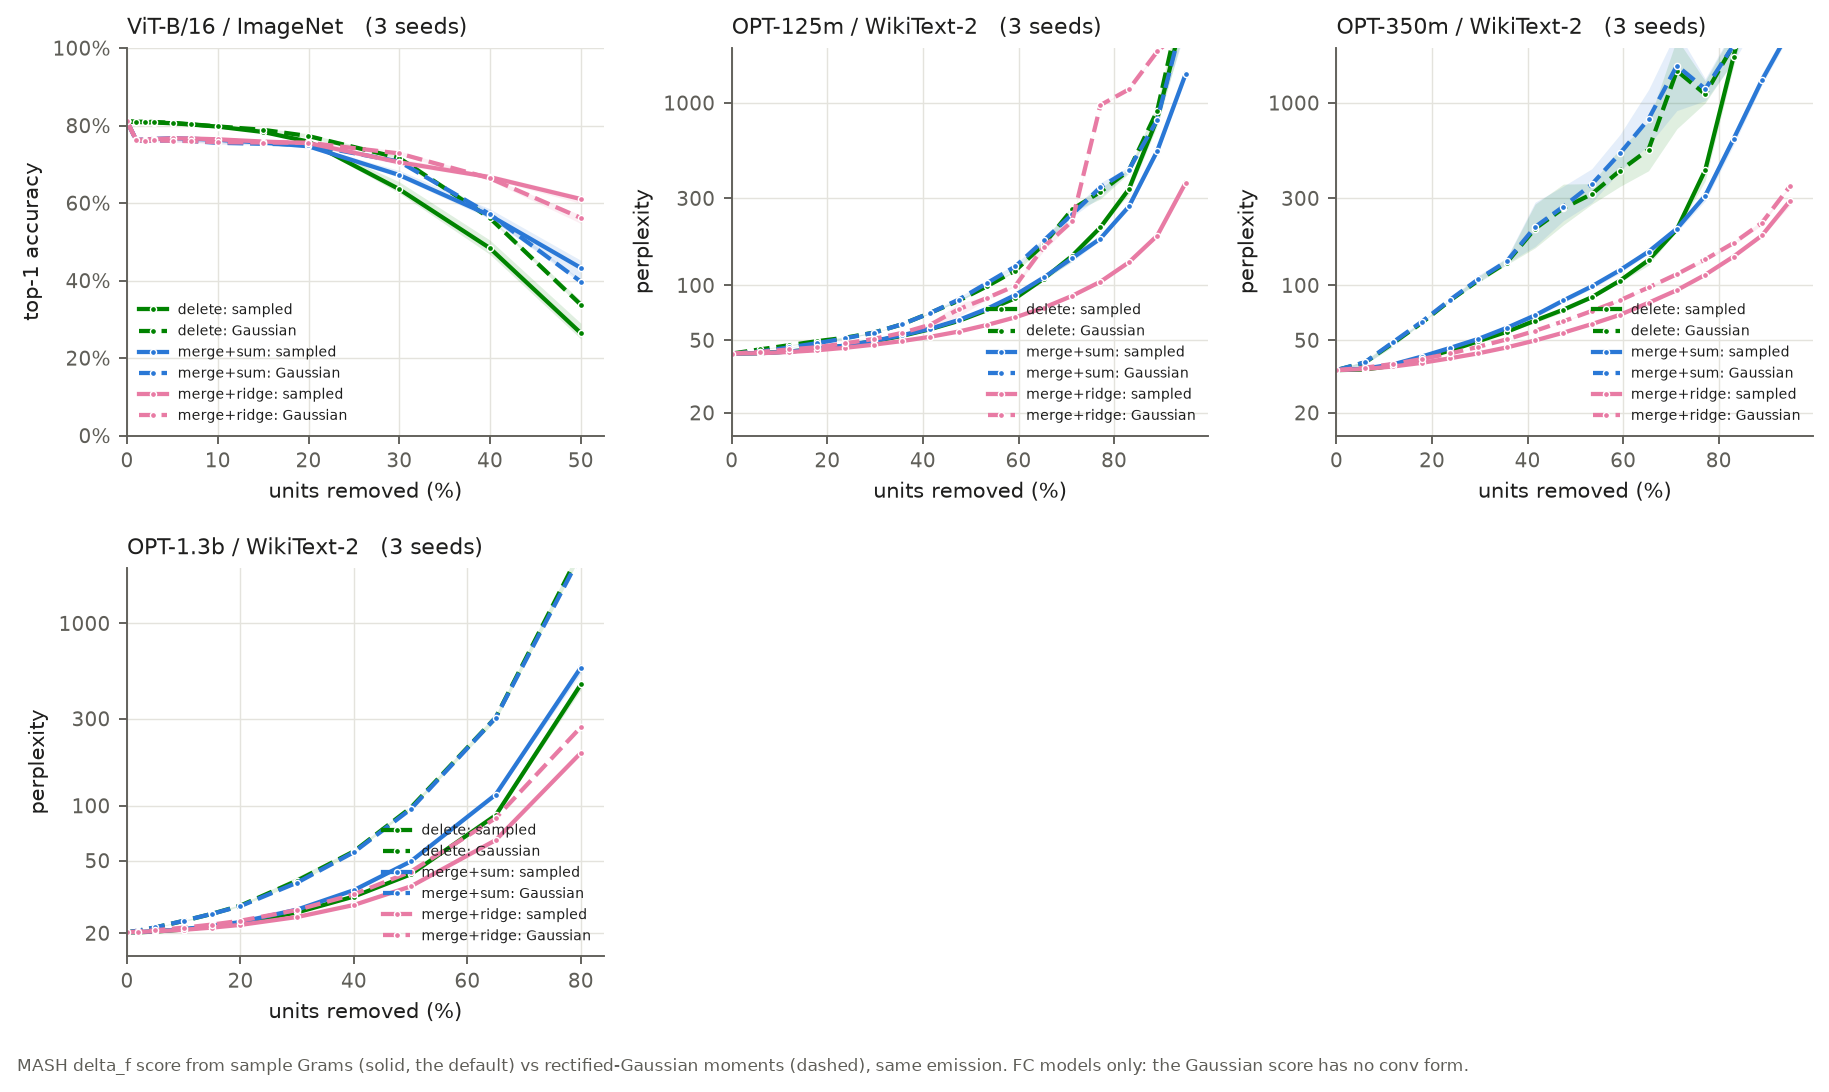
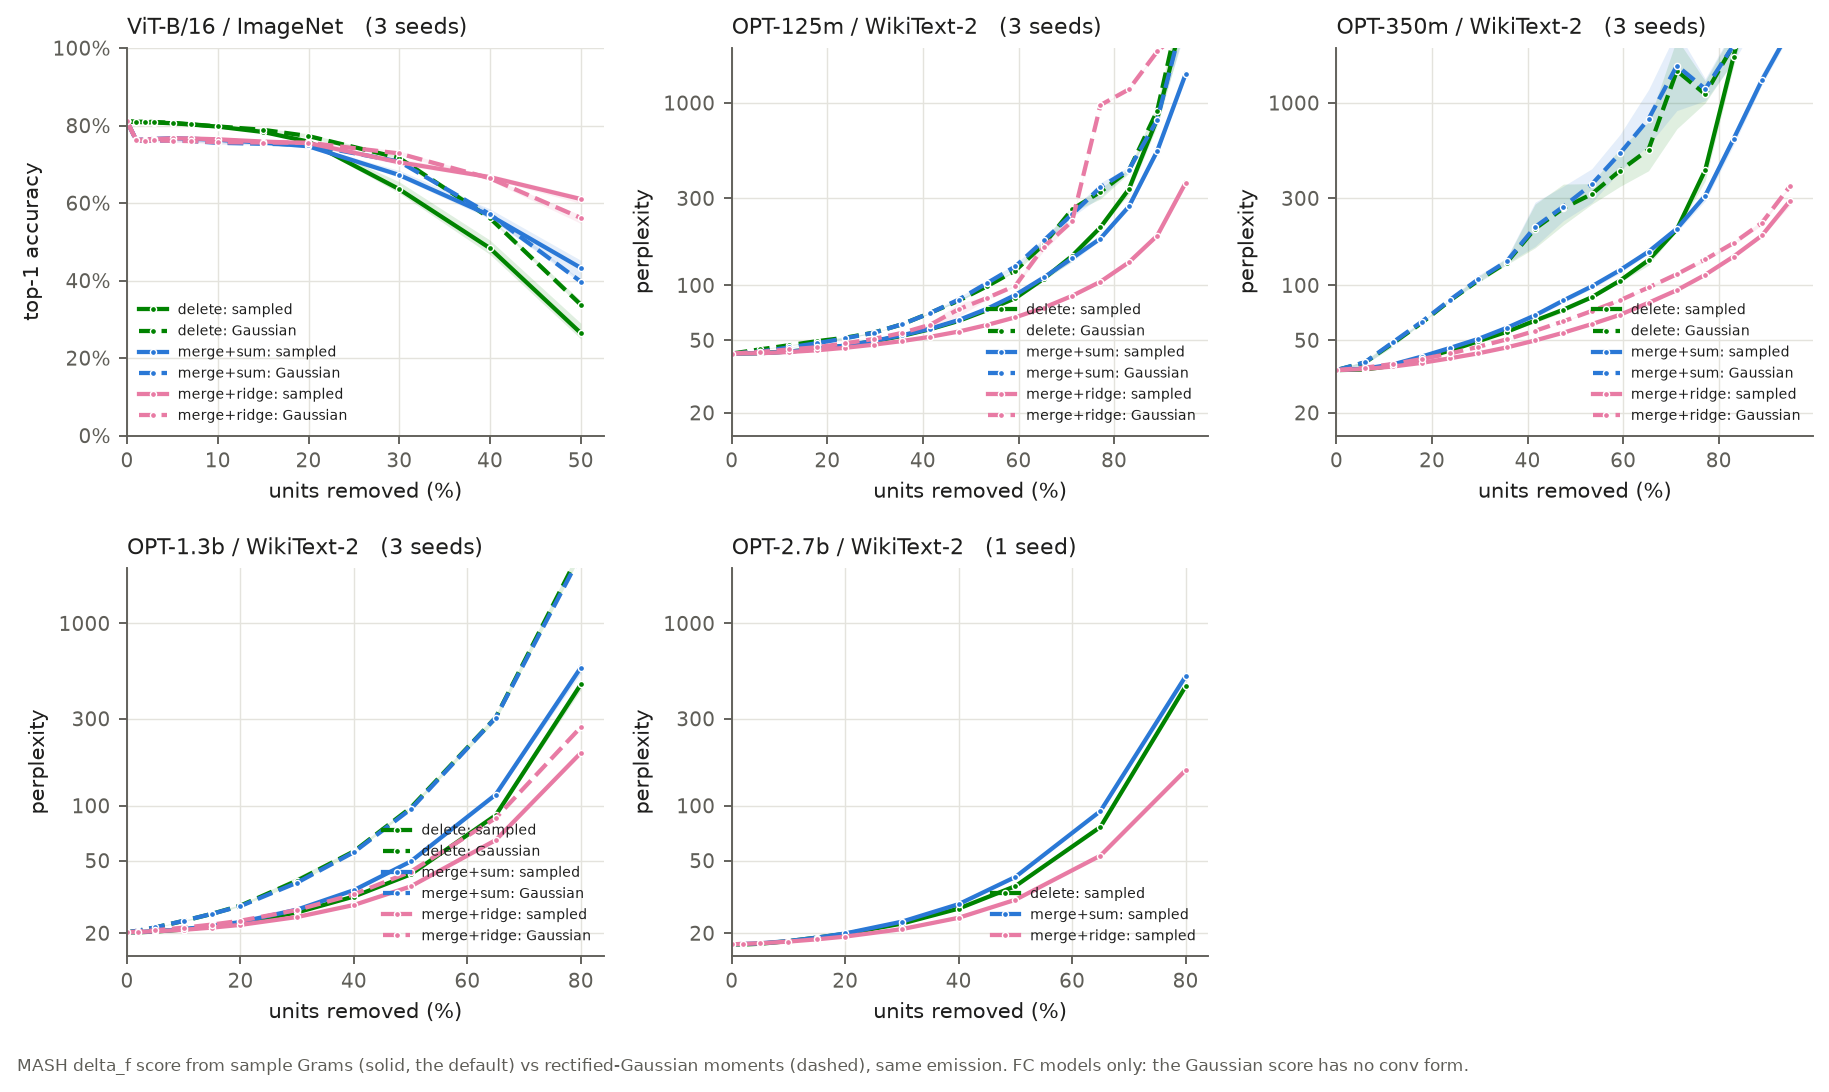
Cylinder arms only on the smaller models; preliminary figures with OPT-2.7b

diff --git a/paper/inventory.py b/paper/inventory.py
@@ -64,7 +64,7 @@ PAPER_BIG = {"random", "random_ridge", "magnitude_mass", "magnitude_mass_ridge",
              "osscar_norepair", "mash_medoid_none_delta_f", "mash_drop_none_delta_f",
              "mash_medoid_sum_delta_f",
              "mash_merge_sum_delta_f", "mash_ridge_merge_empirical_delta_f",
-             "mash_full_medoid_empirical_delta_f", "mash_merge_sum_cylinder"}
+             "mash_full_medoid_empirical_delta_f"}   # no cylinder arms at 2.7b/6.7b (decided 2026-09-14)
 
 
 def applicable(arm: str, model: str) -> str | None:

diff --git a/paper/TODO.md b/paper/TODO.md
@@ -8,18 +8,18 @@ Legend: `3/3` seeds done / wanted, `--` unrunnable by construction, `ARM?` arm n
 
 | arm | mnist_lenet | c10_resnet20 | c10_resnet56 | in_resnet18 | in_resnet50 | in_mobilenetv2 | in_vit_b16 | opt125m | opt350m | opt1.3b | opt2.7b | opt6.7b |
 |---|---|---|---|---|---|---|---|---|---|---|---|---|
-| mash_medoid_none_delta_f | **3/3** | **3/3** | **3/3** | **3/3** | **3/3** | **3/3** | **3/3** | **3/3** | **3/3** | **3/3** | 0/1 | 0/1 |
-| osscar_norepair | **3/3** | **3/3** | **3/3** | **3/3** | **3/3** | **3/3** | **3/3** | **3/3** | **3/3** | **3/3** | 0/1 | 0/1 |
-| magnitude_mass | **3/3** | **3/3** | **3/3** | **3/3** | **3/3** | **3/3** | **3/3** | **3/3** | **3/3** | **3/3** | 0/1 | 0/1 |
+| mash_medoid_none_delta_f | **3/3** | **3/3** | **3/3** | **3/3** | **3/3** | **3/3** | **3/3** | **3/3** | **3/3** | **3/3** | **1/1** | 0/1 |
+| osscar_norepair | **3/3** | **3/3** | **3/3** | **3/3** | **3/3** | **3/3** | **3/3** | **3/3** | **3/3** | **3/3** | **1/1** | 0/1 |
+| magnitude_mass | **3/3** | **3/3** | **3/3** | **3/3** | **3/3** | **3/3** | **3/3** | **3/3** | **3/3** | **3/3** | **1/1** | **1/1** |
 
 ## C1b same repair
 
 | arm | mnist_lenet | c10_resnet20 | c10_resnet56 | in_resnet18 | in_resnet50 | in_mobilenetv2 | in_vit_b16 | opt125m | opt350m | opt1.3b | opt2.7b | opt6.7b |
 |---|---|---|---|---|---|---|---|---|---|---|---|---|
-| mash_full_medoid_empirical_delta_f | **3/3** | **3/3** | **3/3** | **3/3** | **3/3** | **3/3** | **3/3** | **3/3** | **3/3** | **3/3** | 0/1 | 0/1 |
+| mash_full_medoid_empirical_delta_f | **3/3** | **3/3** | **3/3** | **3/3** | **3/3** | **3/3** | **3/3** | **3/3** | **3/3** | **3/3** | **1/1** | 0/1 |
 | mash_ridge_medoid_empirical_delta_f | **3/3** | **3/3** | **3/3** | **3/3** | **3/3** | **3/3** | **3/3** | **3/3** | **3/3** | **3/3** | -- | -- |
-| mash_ridge_merge_empirical_delta_f | **3/3** | -- | -- | -- | -- | -- | **3/3** | **3/3** | **3/3** | **3/3** | 0/1 | 0/1 |
-| osscar | **3/3** | **3/3** | **3/3** | **3/3** | **3/3** | **3/3** | **3/3** | **3/3** | **3/3** | **3/3** | 0/1 | 0/1 |
+| mash_ridge_merge_empirical_delta_f | **3/3** | -- | -- | -- | -- | -- | **3/3** | **3/3** | **3/3** | **3/3** | **1/1** | 0/1 |
+| osscar | **3/3** | **3/3** | **3/3** | **3/3** | **3/3** | **3/3** | **3/3** | **3/3** | **3/3** | **3/3** | **1/1** | 0/1 |
 | random_ridge | **3/3** | **3/3** | **3/3** | **3/3** | **3/3** | **3/3** | **3/3** | **3/3** | **3/3** | **3/3** | 0/1 | 0/1 |
 | magnitude_mass_ridge | **3/3** | **3/3** | **3/3** | **3/3** | **3/3** | **3/3** | **3/3** | **3/3** | **3/3** | **3/3** | 0/1 | 0/1 |
 
@@ -27,21 +27,21 @@ Legend: `3/3` seeds done / wanted, `--` unrunnable by construction, `ARM?` arm n
 
 | arm | mnist_lenet | c10_resnet20 | c10_resnet56 | in_resnet18 | in_resnet50 | in_mobilenetv2 | in_vit_b16 | opt125m | opt350m | opt1.3b | opt2.7b | opt6.7b |
 |---|---|---|---|---|---|---|---|---|---|---|---|---|
-| random | **3/3** | **3/3** | **3/3** | **3/3** | **3/3** | **3/3** | **3/3** | **3/3** | **3/3** | **3/3** | 0/1 | 0/1 |
-| magnitude_mass | **3/3** | **3/3** | **3/3** | **3/3** | **3/3** | **3/3** | **3/3** | **3/3** | **3/3** | **3/3** | 0/1 | 0/1 |
-| osscar_norepair | **3/3** | **3/3** | **3/3** | **3/3** | **3/3** | **3/3** | **3/3** | **3/3** | **3/3** | **3/3** | 0/1 | 0/1 |
-| mash_medoid_none_delta_f | **3/3** | **3/3** | **3/3** | **3/3** | **3/3** | **3/3** | **3/3** | **3/3** | **3/3** | **3/3** | 0/1 | 0/1 |
-| mash_drop_none_delta_f | **3/3** | **3/3** | **3/3** | **3/3** | **3/3** | **3/3** | **3/3** | **3/3** | **3/3** | **3/3** | 0/1 | 0/1 |
-| mash_medoid_sum_delta_f | **3/3** | **3/3** | **3/3** | **3/3** | **3/3** | **3/3** | **3/3** | **3/3** | **3/3** | **3/3** | 0/1 | 0/1 |
-| mash_merge_sum_delta_f | **3/3** | -- | -- | -- | -- | -- | **3/3** | **3/3** | **3/3** | **3/3** | 0/1 | 0/1 |
+| random | **3/3** | **3/3** | **3/3** | **3/3** | **3/3** | **3/3** | **3/3** | **3/3** | **3/3** | **3/3** | **1/1** | **1/1** |
+| magnitude_mass | **3/3** | **3/3** | **3/3** | **3/3** | **3/3** | **3/3** | **3/3** | **3/3** | **3/3** | **3/3** | **1/1** | **1/1** |
+| osscar_norepair | **3/3** | **3/3** | **3/3** | **3/3** | **3/3** | **3/3** | **3/3** | **3/3** | **3/3** | **3/3** | **1/1** | 0/1 |
+| mash_medoid_none_delta_f | **3/3** | **3/3** | **3/3** | **3/3** | **3/3** | **3/3** | **3/3** | **3/3** | **3/3** | **3/3** | **1/1** | 0/1 |
+| mash_drop_none_delta_f | **3/3** | **3/3** | **3/3** | **3/3** | **3/3** | **3/3** | **3/3** | **3/3** | **3/3** | **3/3** | **1/1** | 0/1 |
+| mash_medoid_sum_delta_f | **3/3** | **3/3** | **3/3** | **3/3** | **3/3** | **3/3** | **3/3** | **3/3** | **3/3** | **3/3** | **1/1** | 0/1 |
+| mash_merge_sum_delta_f | **3/3** | -- | -- | -- | -- | -- | **3/3** | **3/3** | **3/3** | **3/3** | **1/1** | 0/1 |
 
 ## C3 overall + cost
 
 | arm | mnist_lenet | c10_resnet20 | c10_resnet56 | in_resnet18 | in_resnet50 | in_mobilenetv2 | in_vit_b16 | opt125m | opt350m | opt1.3b | opt2.7b | opt6.7b |
 |---|---|---|---|---|---|---|---|---|---|---|---|---|
-| osscar | **3/3** | **3/3** | **3/3** | **3/3** | **3/3** | **3/3** | **3/3** | **3/3** | **3/3** | **3/3** | 0/1 | 0/1 |
-| mash_full_medoid_empirical_delta_f | **3/3** | **3/3** | **3/3** | **3/3** | **3/3** | **3/3** | **3/3** | **3/3** | **3/3** | **3/3** | 0/1 | 0/1 |
-| mash_ridge_merge_empirical_delta_f | **3/3** | -- | -- | -- | -- | -- | **3/3** | **3/3** | **3/3** | **3/3** | 0/1 | 0/1 |
+| osscar | **3/3** | **3/3** | **3/3** | **3/3** | **3/3** | **3/3** | **3/3** | **3/3** | **3/3** | **3/3** | **1/1** | 0/1 |
+| mash_full_medoid_empirical_delta_f | **3/3** | **3/3** | **3/3** | **3/3** | **3/3** | **3/3** | **3/3** | **3/3** | **3/3** | **3/3** | **1/1** | 0/1 |
+| mash_ridge_merge_empirical_delta_f | **3/3** | -- | -- | -- | -- | -- | **3/3** | **3/3** | **3/3** | **3/3** | **1/1** | 0/1 |
 | mash_ridge_medoid_empirical_delta_f | **3/3** | **3/3** | **3/3** | **3/3** | **3/3** | **3/3** | **3/3** | **3/3** | **3/3** | **3/3** | -- | -- |
 | random_ridge | **3/3** | **3/3** | **3/3** | **3/3** | **3/3** | **3/3** | **3/3** | **3/3** | **3/3** | **3/3** | 0/1 | 0/1 |
 | magnitude_mass_ridge | **3/3** | **3/3** | **3/3** | **3/3** | **3/3** | **3/3** | **3/3** | **3/3** | **3/3** | **3/3** | 0/1 | 0/1 |
@@ -50,11 +50,11 @@ Legend: `3/3` seeds done / wanted, `--` unrunnable by construction, `ARM?` arm n
 
 | arm | in_vit_b16 | opt125m | opt350m | opt1.3b | opt2.7b | opt6.7b |
 |---|---|---|---|---|---|---|
-| mash_merge_sum_delta_f | **3/3** | **3/3** | **3/3** | **3/3** | 0/1 | 0/1 |
+| mash_merge_sum_delta_f | **3/3** | **3/3** | **3/3** | **3/3** | **1/1** | 0/1 |
 | mash_gaussian_merge_sum_delta_f | **3/3** | **3/3** | **3/3** | 1/3 | -- | -- |
-| mash_ridge_merge_empirical_delta_f | **3/3** | **3/3** | **3/3** | **3/3** | 0/1 | 0/1 |
+| mash_ridge_merge_empirical_delta_f | **3/3** | **3/3** | **3/3** | **3/3** | **1/1** | 0/1 |
 | mash_ridge_gaussian_merge_empirical_delta_f | **3/3** | **3/3** | **3/3** | 1/3 | -- | -- |
-| mash_medoid_none_delta_f | **3/3** | **3/3** | **3/3** | **3/3** | 0/1 | 0/1 |
+| mash_medoid_none_delta_f | **3/3** | **3/3** | **3/3** | **3/3** | **1/1** | 0/1 |
 | mash_gaussian_medoid_none_delta_f | **3/3** | **3/3** | **3/3** | **3/3** | -- | -- |
 
 ## C5c certificate (benchmark cells)
@@ -62,7 +62,7 @@ Legend: `3/3` seeds done / wanted, `--` unrunnable by construction, `ARM?` arm n
 | arm | mnist_lenet | c10_resnet20 | c10_resnet56 | in_resnet18 | in_resnet50 | in_mobilenetv2 | in_vit_b16 | opt125m | opt350m | opt1.3b | opt2.7b | opt6.7b |
 |---|---|---|---|---|---|---|---|---|---|---|---|---|
 | mash_certified | **3/3** | **3/3** | **3/3** | **3/3** | **3/3** | **3/3** | **3/3** | **3/3** | **3/3** | **3/3** | -- | -- |
-| mash_merge_sum_cylinder | **3/3** | -- | -- | -- | -- | -- | **3/3** | **3/3** | **3/3** | **3/3** | 0/1 | 0/1 |
+| mash_merge_sum_cylinder | **3/3** | -- | -- | -- | -- | -- | **3/3** | **3/3** | **3/3** | **3/3** | -- | -- |
 | mash_medoid_sum_cylinder | **3/3** | **3/3** | **3/3** | **3/3** | **3/3** | **3/3** | **3/3** | **3/3** | **3/3** | **3/3** | -- | -- |
 | mash_ridge_merge_empirical_cylinder | **3/3** | -- | -- | -- | -- | -- | **3/3** | **3/3** | **3/3** | **3/3** | -- | -- |
 | mash_ridge_medoid_empirical_cylinder | **3/3** | **3/3** | **3/3** | **3/3** | **3/3** | **3/3** | **3/3** | **3/3** | **3/3** | **3/3** | -- | -- |
@@ -80,10 +80,10 @@ Legend: `3/3` seeds done / wanted, `--` unrunnable by construction, `ARM?` arm n
 - **wikitext_opt125m**: complete
 - **wikitext_opt350m**: complete
 - **wikitext_opt1.3b** (2 cells, 4 seed-runs): mash_gaussian_merge_sum_delta_f (+2), mash_ridge_gaussian_merge_empirical_delta_f (+2)
-- **wikitext_opt2.7b** (13 cells, 13 seed-runs): magnitude_mass (+1), magnitude_mass_ridge (+1), mash_drop_none_delta_f (+1), mash_full_medoid_empirical_delta_f (+1), mash_medoid_none_delta_f (+1), mash_medoid_sum_delta_f (+1), mash_merge_sum_cylinder (+1), mash_merge_sum_delta_f (+1), mash_ridge_merge_empirical_delta_f (+1), osscar (+1), osscar_norepair (+1), random (+1), random_ridge (+1)
-- **wikitext_opt6.7b** (13 cells, 13 seed-runs): magnitude_mass (+1), magnitude_mass_ridge (+1), mash_drop_none_delta_f (+1), mash_full_medoid_empirical_delta_f (+1), mash_medoid_none_delta_f (+1), mash_medoid_sum_delta_f (+1), mash_merge_sum_cylinder (+1), mash_merge_sum_delta_f (+1), mash_ridge_merge_empirical_delta_f (+1), osscar (+1), osscar_norepair (+1), random (+1), random_ridge (+1)
+- **wikitext_opt2.7b** (2 cells, 2 seed-runs): magnitude_mass_ridge (+1), random_ridge (+1)
+- **wikitext_opt6.7b** (10 cells, 10 seed-runs): magnitude_mass_ridge (+1), mash_drop_none_delta_f (+1), mash_full_medoid_empirical_delta_f (+1), mash_medoid_none_delta_f (+1), mash_medoid_sum_delta_f (+1), mash_merge_sum_delta_f (+1), mash_ridge_merge_empirical_delta_f (+1), osscar (+1), osscar_norepair (+1), random_ridge (+1)
 
-**30 seed-runs missing in total.**
+**16 seed-runs missing in total.**
 
 ## Analysis figures (not benchmark cells)
 

diff --git a/paper/PLAN.md b/paper/PLAN.md
@@ -10,8 +10,8 @@ Decisions (2026-09-10): OSSCAR is the major baseline and keeps ITS OWN repair
 throughout (no OSSCAR-under-our-repair arm). For every other arm "repaired"
 means the empirical least-squares repair at ridge 1e-2 (OSSCAR's damping
 strength; the 1e-8 guard is an appendix ablation). OPT-2.7b/6.7b run a
-reduced set (`paper_big`): no Gaussian ablation, no medoid variants, no
-mash_certified. Three seeds everywhere; OPT-2.7b/6.7b
+reduced set (`paper_big`): no Gaussian ablation, no cylinder arms (the
+certificate tier stays on the smaller models), no mash_certified. Three seeds everywhere; OPT-2.7b/6.7b
 start at one seed and get three if the budget allows. The delta_f score's
 measure is SAMPLED by default; Gaussian moments are the `mash_gaussian_*`
 ablation and exist only on fully-connected layers.
